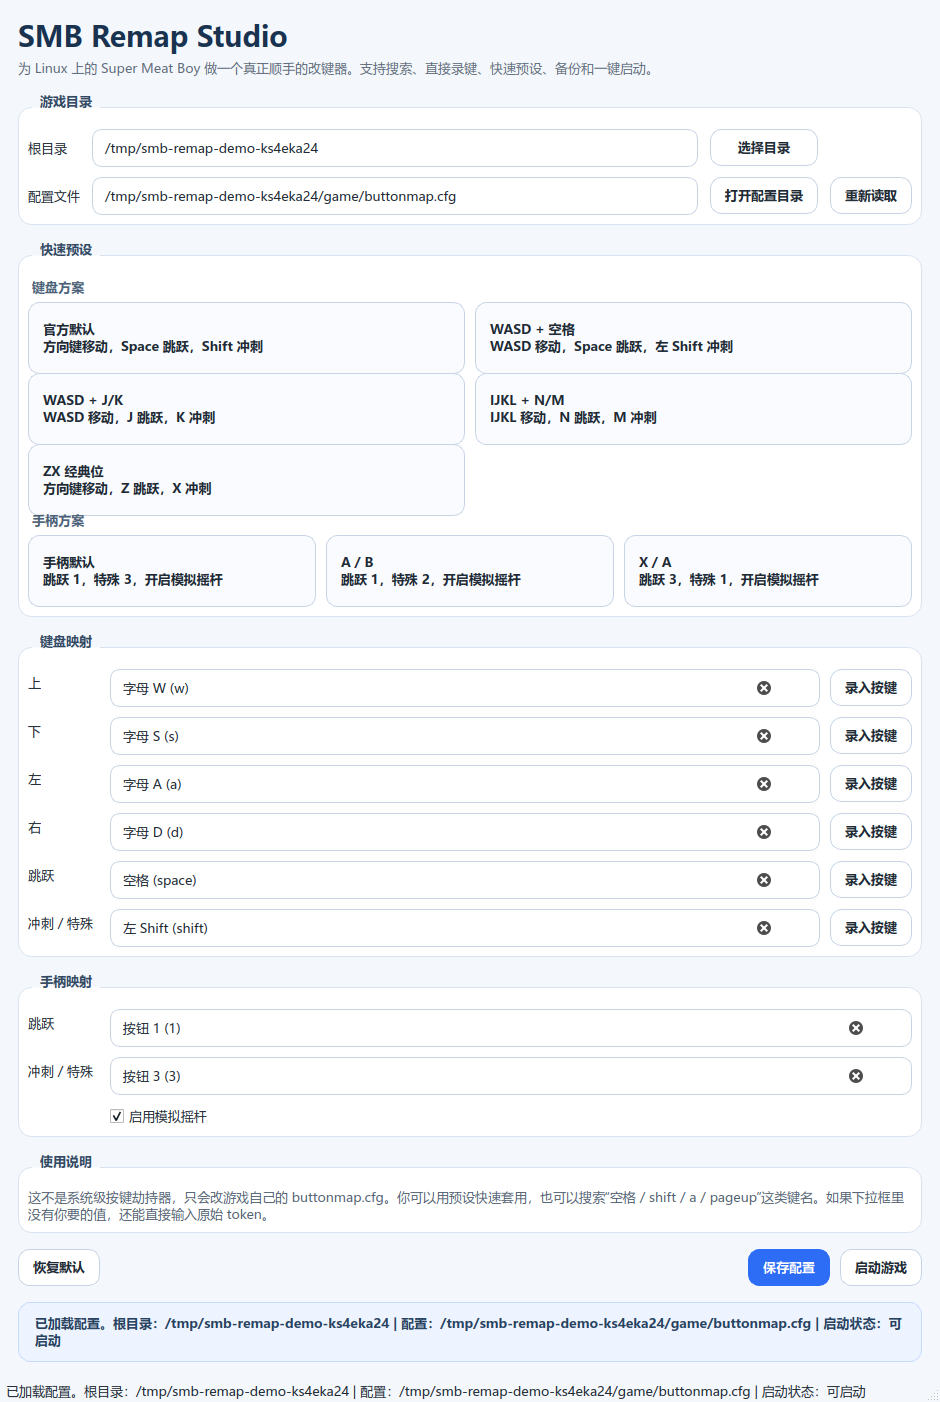
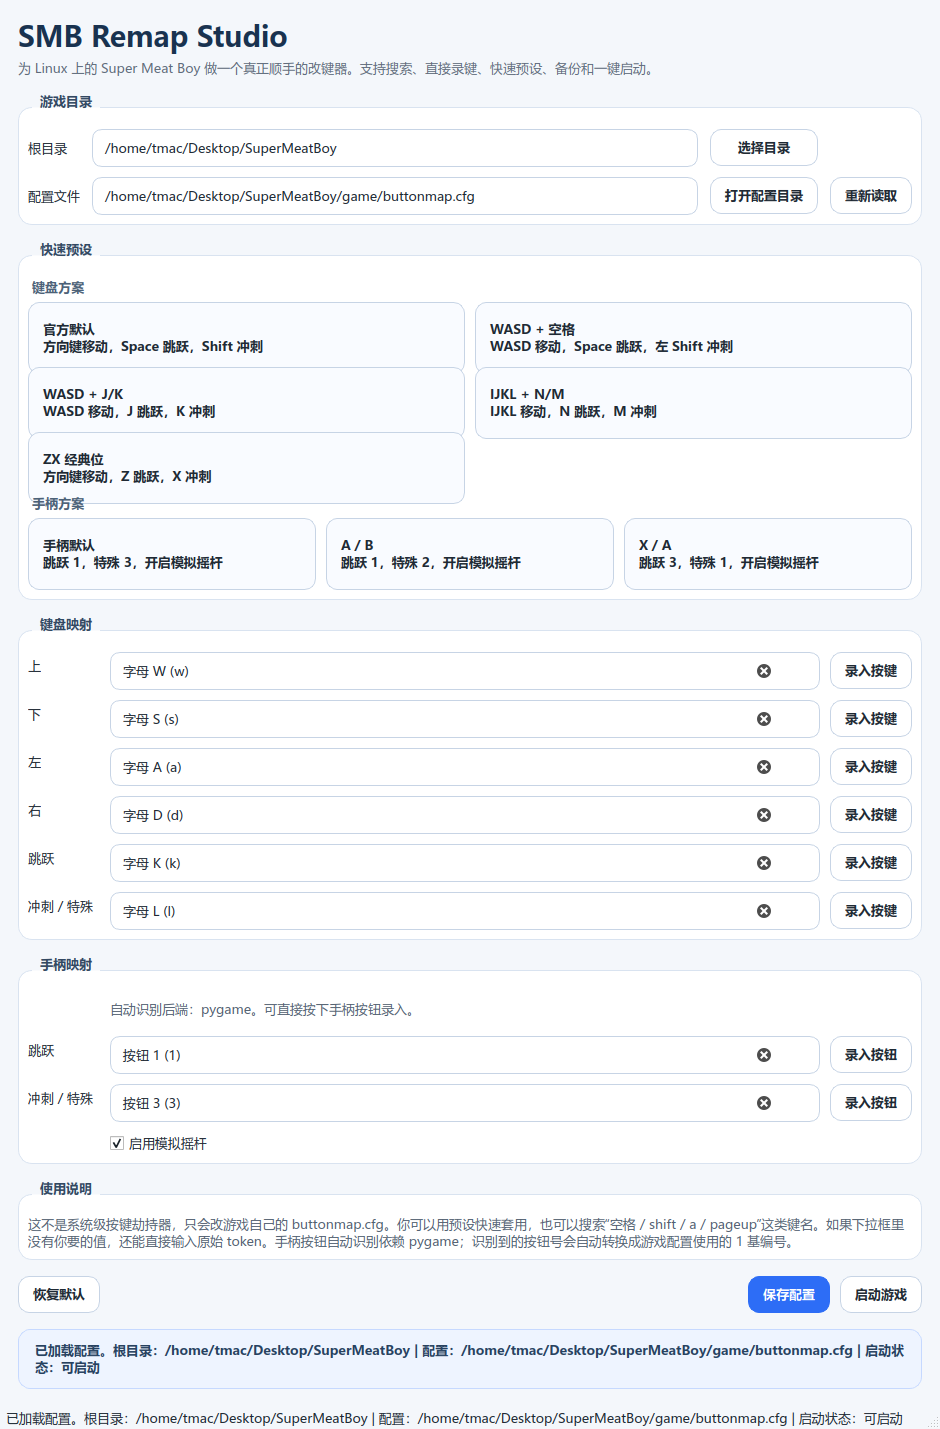
Add automatic gamepad button capture

diff --git a/smb_remap_tool.py b/smb_remap_tool.py
@@ -15,7 +15,17 @@ from pathlib import Path
 from string import ascii_lowercase, digits
 from typing import Iterable
 
-from PySide6.QtCore import QProcess, QSettings, QStringListModel, Qt, QUrl
+os.environ.setdefault("PYGAME_HIDE_SUPPORT_PROMPT", "1")
+
+try:
+    import pygame
+except Exception as exc:  # pragma: no cover - optional runtime dependency
+    pygame = None
+    PYGAME_IMPORT_ERROR = exc
+else:
+    PYGAME_IMPORT_ERROR = None
+
+from PySide6.QtCore import QProcess, QSettings, QStringListModel, Qt, QTimer, QUrl
 from PySide6.QtGui import QDesktopServices, QFont, QIcon, QKeyEvent
 from PySide6.QtWidgets import (
     QApplication,
@@ -410,6 +420,10 @@ def describe_token(token: str) -> str:
     return normalized
 
 
+def gamepad_capture_backend_name() -> str:
+    return "pygame" if pygame is not None else "未安装"
+
+
 class TokenComboBox(QComboBox):
     def __init__(self, items: Iterable[TokenChoice], placeholder: str, parent: QWidget | None = None) -> None:
         super().__init__(parent)
@@ -493,6 +507,166 @@ class KeyCaptureDialog(QDialog):
             "background: #fff6f3; border: 1px solid #ffd0c2; border-radius: 12px; "
             "padding: 14px; font-weight: 600; color: #b04a2f;"
         )
+
+
+class GamepadCaptureDialog(QDialog):
+    def __init__(self, action_label: str, parent: QWidget | None = None) -> None:
+        super().__init__(parent)
+        self.action_label = action_label
+        self.captured_token: str | None = None
+        self._joystick_names: dict[int, str] = {}
+        self._backend_ready = False
+
+        self.setWindowTitle(f"录入手柄按钮 - {action_label}")
+        self.setModal(True)
+        self.setMinimumWidth(520)
+
+        layout = QVBoxLayout(self)
+        title = QLabel(f"为“{action_label}”按下一个手柄按钮")
+        title.setStyleSheet("font-size: 18px; font-weight: 700;")
+        hint = QLabel(
+            "只识别物理按钮按下事件。这里会把 pygame 读到的 0 基按钮号自动换算成"
+            " Super Meat Boy 配置里使用的 1 基编号。"
+        )
+        hint.setWordWrap(True)
+        hint.setStyleSheet("color: #5f6b7a;")
+
+        self.backend_label = QLabel(f"检测后端：{gamepad_capture_backend_name()}")
+        self.backend_label.setStyleSheet("color: #325172; font-weight: 600;")
+        self.device_label = QLabel("正在扫描手柄…")
+        self.device_label.setWordWrap(True)
+        self.device_label.setStyleSheet(
+            "background: #f5f8ff; border: 1px solid #c8d8ff; border-radius: 12px; padding: 12px;"
+        )
+        self.result_label = QLabel("等待按下手柄按钮…")
+        self.result_label.setWordWrap(True)
+        self.result_label.setStyleSheet(
+            "background: #f5f8ff; border: 1px solid #c8d8ff; border-radius: 12px; "
+            "padding: 14px; font-weight: 600;"
+        )
+
+        self.refresh_button = QPushButton("重新扫描")
+        self.refresh_button.clicked.connect(self.initialize_backend)
+        cancel_button = QPushButton("取消")
+        cancel_button.clicked.connect(self.reject)
+
+        button_row = QHBoxLayout()
+        button_row.addWidget(self.refresh_button)
+        button_row.addStretch(1)
+        button_row.addWidget(cancel_button)
+
+        layout.addWidget(title)
+        layout.addWidget(hint)
+        layout.addWidget(self.backend_label)
+        layout.addWidget(self.device_label)
+        layout.addWidget(self.result_label)
+        layout.addLayout(button_row)
+
+        self.timer = QTimer(self)
+        self.timer.setInterval(20)
+        self.timer.timeout.connect(self.poll_events)
+
+        self.initialize_backend()
+
+    def initialize_backend(self) -> None:
+        self._backend_ready = False
+        self._joystick_names = {}
+        if pygame is None:
+            self.device_label.setText("当前环境未安装 pygame，无法使用手柄自动识别。")
+            self.result_label.setText("请运行 ./setup_remap_tool.sh 更新依赖，或重新下载最新打包版。")
+            self.result_label.setStyleSheet(
+                "background: #fff6f3; border: 1px solid #ffd0c2; border-radius: 12px; "
+                "padding: 14px; font-weight: 600; color: #b04a2f;"
+            )
+            return
+
+        try:
+            if not pygame.display.get_init():
+                pygame.display.init()
+            if not pygame.joystick.get_init():
+                pygame.joystick.init()
+            pygame.event.clear()
+            has_joystick = self.refresh_joysticks()
+            self._backend_ready = True
+            if has_joystick:
+                self.result_label.setText("等待按下手柄按钮…")
+                self.result_label.setStyleSheet(
+                    "background: #f5f8ff; border: 1px solid #c8d8ff; border-radius: 12px; "
+                    "padding: 14px; font-weight: 600;"
+                )
+            self.timer.start()
+        except Exception as exc:
+            self.device_label.setText(f"手柄扫描失败：{exc}")
+            self.result_label.setText("后端初始化失败。你仍然可以手动输入按钮编号。")
+            self.result_label.setStyleSheet(
+                "background: #fff6f3; border: 1px solid #ffd0c2; border-radius: 12px; "
+                "padding: 14px; font-weight: 600; color: #b04a2f;"
+            )
+
+    def refresh_joysticks(self) -> bool:
+        assert pygame is not None
+        self._joystick_names = {}
+        count = pygame.joystick.get_count()
+        if count <= 0:
+            self.device_label.setText("没有检测到手柄。插上手柄后点“重新扫描”，再按目标按钮。")
+            self.result_label.setText("当前没有可录入的手柄。插上手柄后重新扫描即可。")
+            self.result_label.setStyleSheet(
+                "background: #fffaf0; border: 1px solid #ffd88a; border-radius: 12px; "
+                "padding: 14px; font-weight: 600; color: #8a5a00;"
+            )
+            return False
+
+        names: list[str] = []
+        for index in range(count):
+            joystick = pygame.joystick.Joystick(index)
+            if not joystick.get_init():
+                joystick.init()
+            instance_id = joystick.get_instance_id() if hasattr(joystick, "get_instance_id") else index
+            name = joystick.get_name() or f"控制器 {index + 1}"
+            self._joystick_names[instance_id] = name
+            names.append(f"{index + 1}. {name}")
+        self.device_label.setText("已检测到手柄：\n" + "\n".join(names))
+        self.result_label.setText("已检测到手柄。现在按下目标按钮即可完成录入。")
+        self.result_label.setStyleSheet(
+            "background: #f5f8ff; border: 1px solid #c8d8ff; border-radius: 12px; "
+            "padding: 14px; font-weight: 600;"
+        )
+        return True
+
+    def poll_events(self) -> None:
+        if pygame is None or not self._backend_ready:
+            return
+        try:
+            pygame.event.pump()
+            events = pygame.event.get([pygame.JOYBUTTONDOWN, pygame.JOYDEVICEADDED, pygame.JOYDEVICEREMOVED])
+        except Exception as exc:
+            self.timer.stop()
+            self.device_label.setText(f"轮询失败：{exc}")
+            self.result_label.setText("手柄事件轮询中断。你仍然可以手动输入按钮编号。")
+            self.result_label.setStyleSheet(
+                "background: #fff6f3; border: 1px solid #ffd0c2; border-radius: 12px; "
+                "padding: 14px; font-weight: 600; color: #b04a2f;"
+            )
+            return
+
+        for event in events:
+            if event.type in {pygame.JOYDEVICEADDED, pygame.JOYDEVICEREMOVED}:
+                self.refresh_joysticks()
+                continue
+            if event.type == pygame.JOYBUTTONDOWN:
+                button_number = int(event.button) + 1
+                instance_id = getattr(event, "instance_id", getattr(event, "joy", -1))
+                joystick_name = self._joystick_names.get(instance_id, "未知手柄")
+                self.captured_token = str(button_number)
+                self.result_label.setText(
+                    f"已识别：{joystick_name} 的按钮 {button_number}\n将写入 token：{self.captured_token}"
+                )
+                self.accept()
+                return
+
+    def done(self, result: int) -> None:
+        self.timer.stop()
+        super().done(result)
 
 
 class MainWindow(QMainWindow):
@@ -638,8 +812,35 @@ class MainWindow(QMainWindow):
         self.pad_jump = TokenComboBox(GAMEPAD_CHOICES, "输入按钮编号，例如 1")
         self.pad_special = TokenComboBox(GAMEPAD_CHOICES, "输入按钮编号，例如 3")
         self.use_analog = QCheckBox("启用模拟摇杆")
-        layout.addRow("跳跃", self.pad_jump)
-        layout.addRow("冲刺 / 特殊", self.pad_special)
+        self.pad_capture_hint = QLabel(
+            "自动识别后端："
+            + gamepad_capture_backend_name()
+            + ("。可直接按下手柄按钮录入。" if pygame is not None else "。当前未安装，录入按钮会提示你更新依赖。")
+        )
+        self.pad_capture_hint.setWordWrap(True)
+        self.pad_capture_hint.setStyleSheet("color: #536171;")
+
+        jump_row = QWidget()
+        jump_layout = QHBoxLayout(jump_row)
+        jump_layout.setContentsMargins(0, 0, 0, 0)
+        jump_layout.setSpacing(10)
+        jump_layout.addWidget(self.pad_jump, 1)
+        jump_button = QPushButton("录入按钮")
+        jump_button.clicked.connect(lambda: self.capture_gamepad_binding("jump"))
+        jump_layout.addWidget(jump_button)
+
+        special_row = QWidget()
+        special_layout = QHBoxLayout(special_row)
+        special_layout.setContentsMargins(0, 0, 0, 0)
+        special_layout.setSpacing(10)
+        special_layout.addWidget(self.pad_special, 1)
+        special_button = QPushButton("录入按钮")
+        special_button.clicked.connect(lambda: self.capture_gamepad_binding("special"))
+        special_layout.addWidget(special_button)
+
+        layout.addRow("", self.pad_capture_hint)
+        layout.addRow("跳跃", jump_row)
+        layout.addRow("冲刺 / 特殊", special_row)
         layout.addRow("", self.use_analog)
         return group
 
@@ -650,6 +851,7 @@ class MainWindow(QMainWindow):
             "这不是系统级按键劫持器，只会改游戏自己的 buttonmap.cfg。"
             "你可以用预设快速套用，也可以搜索“空格 / shift / a / pageup”这类键名。"
             "如果下拉框里没有你要的值，还能直接输入原始 token。"
+            "手柄按钮自动识别依赖 pygame；识别到的按钮号会自动转换成游戏配置使用的 1 基编号。"
         )
         note.setWordWrap(True)
         note.setStyleSheet("color: #536171; line-height: 1.5;")
@@ -873,6 +1075,25 @@ class MainWindow(QMainWindow):
         if dialog.exec() == QDialog.Accepted and dialog.captured_token:
             self.keyboard_fields[action].set_token(dialog.captured_token)
             self.set_status(f"已为“{ACTION_LABELS[action]}”录入：{describe_token(dialog.captured_token)}。")
+
+    def capture_gamepad_binding(self, action: str) -> None:
+        if pygame is None:
+            reason = str(PYGAME_IMPORT_ERROR) if PYGAME_IMPORT_ERROR else "未知原因"
+            QMessageBox.information(
+                self,
+                APP_NAME,
+                "当前环境还没有可用的手柄识别后端。\n\n"
+                f"原因：{reason}\n\n"
+                "请运行 ./setup_remap_tool.sh 更新依赖，或使用最新打包版。",
+            )
+            return
+
+        label = "跳跃" if action == "jump" else "冲刺 / 特殊"
+        dialog = GamepadCaptureDialog(label, self)
+        if dialog.exec() == QDialog.Accepted and dialog.captured_token:
+            target = self.pad_jump if action == "jump" else self.pad_special
+            target.set_token(dialog.captured_token)
+            self.set_status(f"已为“{label}”录入手柄按钮：{dialog.captured_token}。")
 
     def restore_defaults(self) -> None:
         self.populate_fields(DEFAULT_CONFIG)

diff --git a/README.md b/README.md
@@ -12,6 +12,7 @@
 - 中文友好的桌面界面
 - 常用键位支持搜索
 - 支持直接录入按键，不再手查 token
+- 支持手柄按钮自动识别
 - 内置多套键盘 / 手柄预设
 - 保存前自动备份 `buttonmap.cfg.bak`
 - 支持一键启动游戏
@@ -85,6 +86,16 @@ SuperMeatBoy/
 - `2`
 
 如果预置列表里没有你想要的值，可以直接手动输入原始 token。
+
+## 手柄按钮自动识别
+
+手柄区的“录入按钮”会等待你按下控制器上的物理按钮，然后自动填入游戏所需的按钮编号。
+
+- 运行时基于 `pygame`
+- `pygame` 读到的按钮号是 0 基
+- 工具会自动转换成 `Super Meat Boy` 配置使用的 1 基编号
+
+例如 `pygame` 的 `button 0` 会写成游戏配置里的 `1`。
 
 ## 截图导出
 
